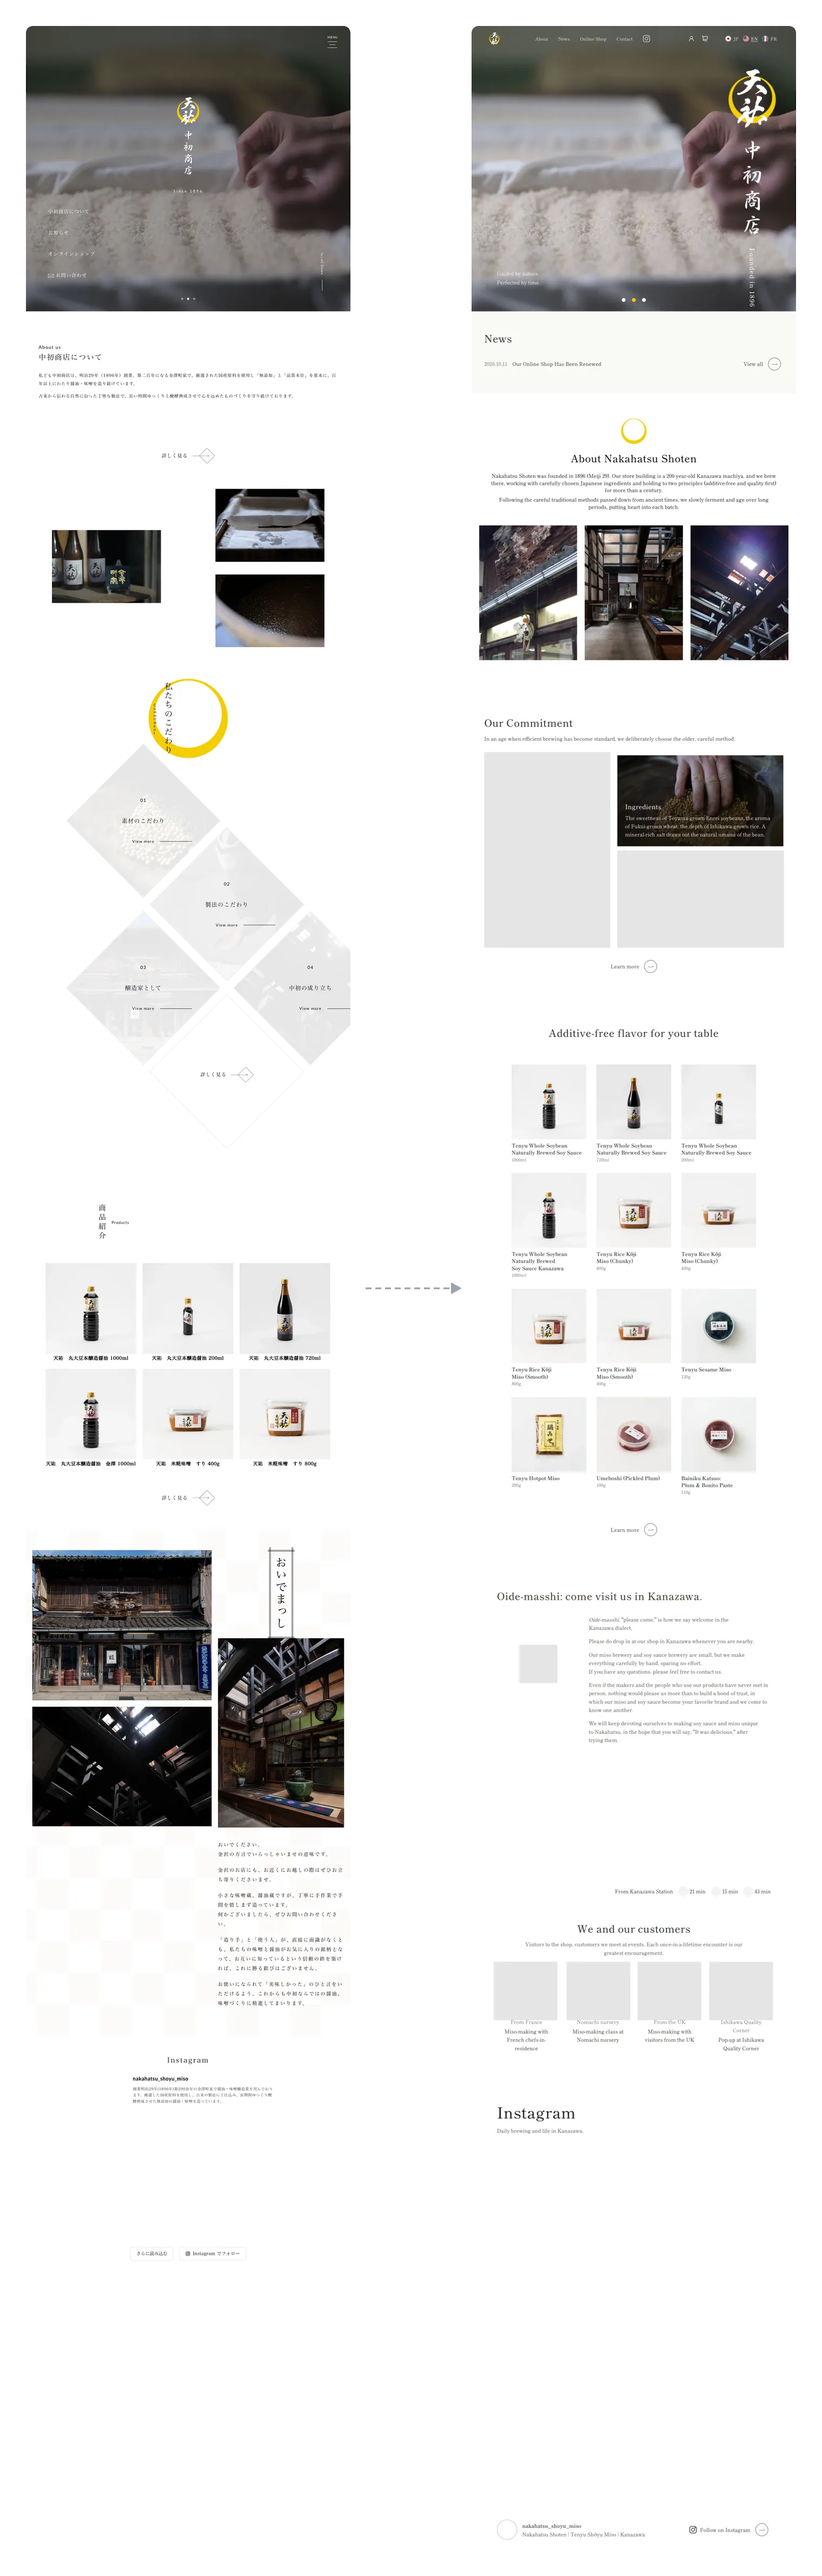
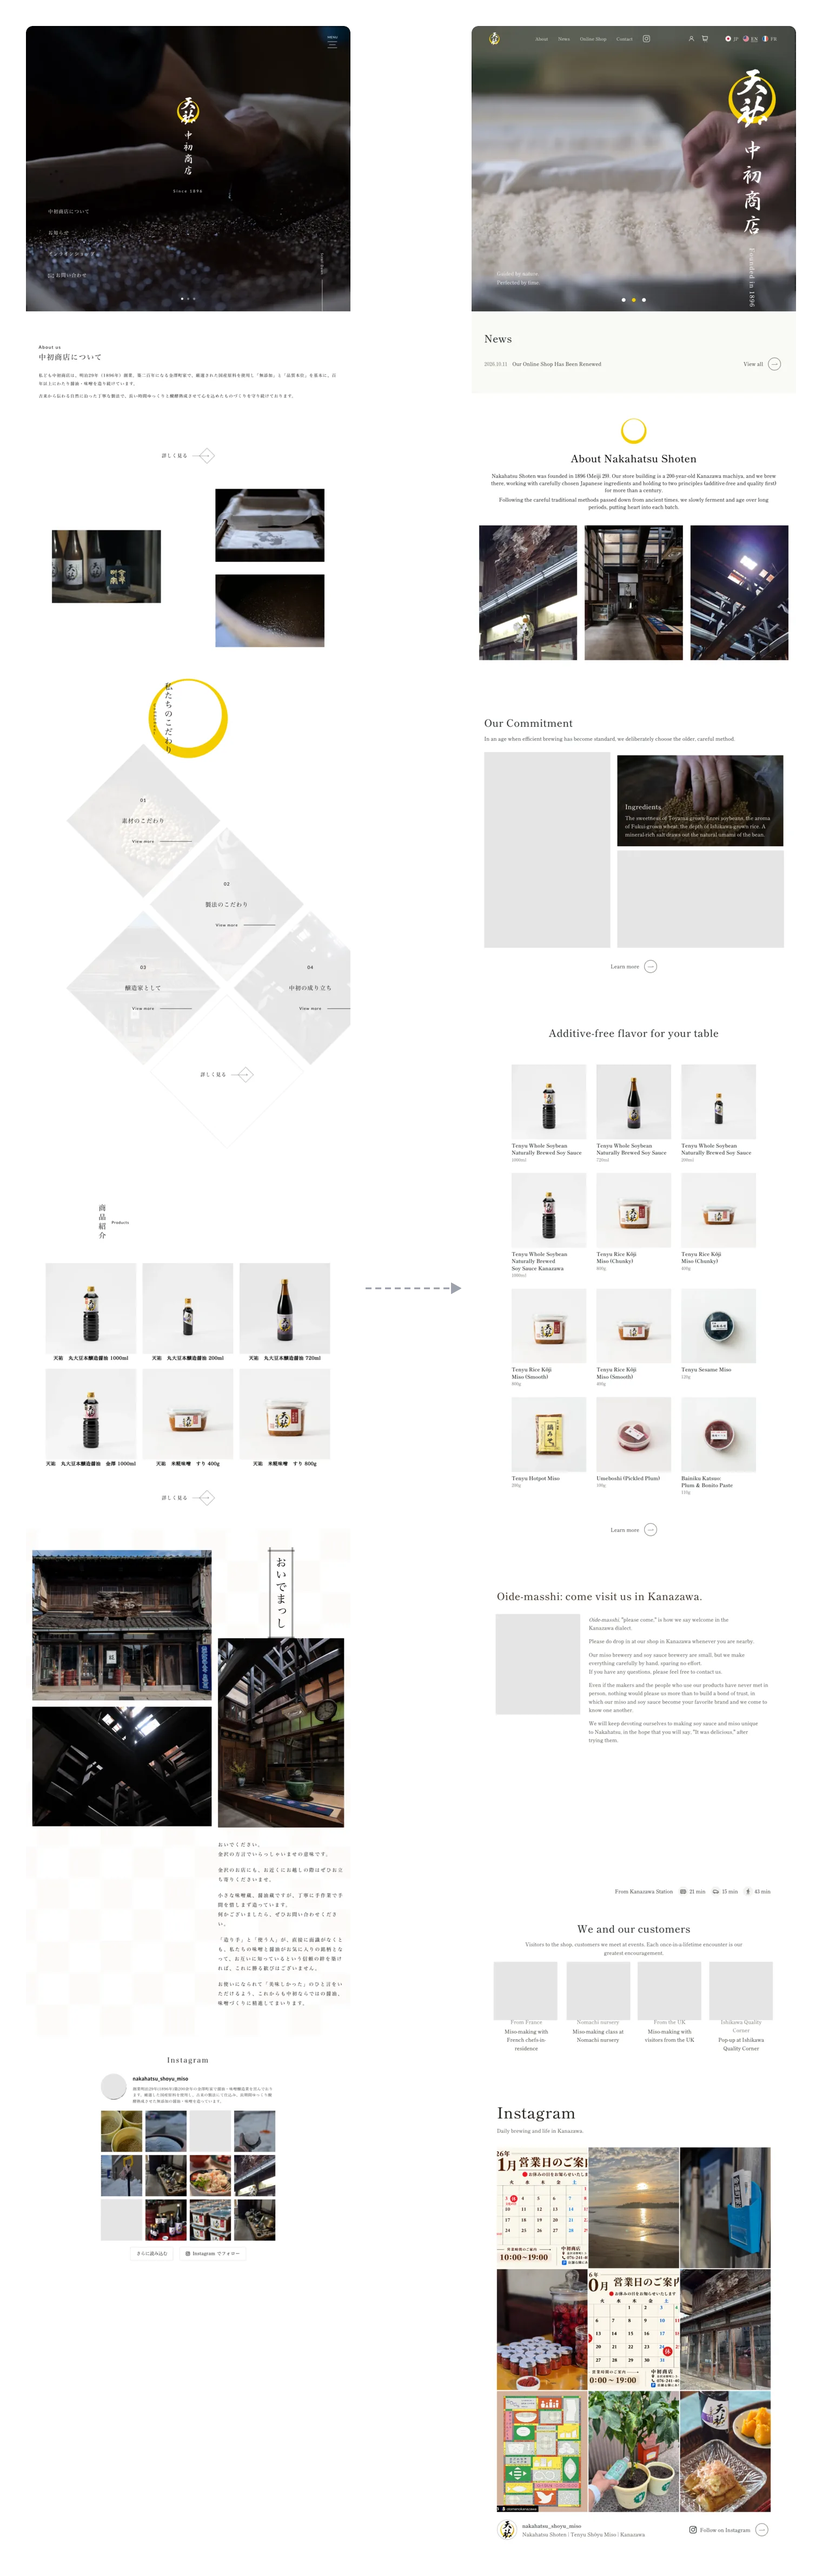
feat(nakahatsu-sy): loading video at top (play once), IG post links, top iteration figure, step 3 order, SP hero figure, v1/v2 recapture

diff --git a/app/[locale]/work/nakahatsu-sy/NakahatsuSy.tsx b/app/[locale]/work/nakahatsu-sy/NakahatsuSy.tsx
@@ -163,18 +163,29 @@ function ParallaxVideo({ label, note }: { label: string; note: string }) {
 type RejFig = { lead: string; groups: [string, string][]; note: string; alts: string[] };
 
 /** 没にした About の案（醸造家として）8案。グループごとに、左に説明、右に画像（スマートフォンは説明のあとに2列）。人物の写真は灰色に置換済み。 */
-/** ローディングアニメーションの録画。無音・ループ。動きを減らす設定のときは自動再生せず、ポスターだけ出す。 */
+/** ローディングアニメーションの録画。無音。画面に入ったら1回だけ再生。動きを減らす設定のときは自動再生せず、コントロールを出す。 */
 function LoadingVideo({ label }: { label: string }) {
   const ref = React.useRef<HTMLVideoElement>(null);
   useEffect(() => {
     const v = ref.current;
     if (!v) return;
     if (window.matchMedia('(prefers-reduced-motion: reduce)').matches) {
-      v.pause();
       v.controls = true;
-    } else {
-      v.play().catch(() => {});
+      return;
     }
+    // 画面に半分以上入ったときに、先頭から1回だけ再生する（ループしない。終わったら最後のコマで止まる）
+    const io = new IntersectionObserver(
+      (entries) => {
+        if (entries.some((e) => e.isIntersecting)) {
+          v.currentTime = 0;
+          v.play().catch(() => {});
+          io.disconnect();
+        }
+      },
+      { threshold: 0.5 },
+    );
+    io.observe(v);
+    return () => io.disconnect();
   }, []);
   return (
     <video
@@ -186,11 +197,35 @@ function LoadingVideo({ label }: { label: string }) {
       width={1280}
       height={720}
       muted
-      loop
       playsInline
-      autoPlay
       preload="metadata"
     />
+  );
+}
+
+type IterFig = { lead: string; groups: [string, string][]; note: string; alts: string[] };
+
+/** トップページの About の節の、没にした案9案（A 7案、B 2案）。RejectedFigure と同じ作り。顔・Sample・住所は写っていない。 */
+function TopIterFigure({ f }: { f: IterFig }) {
+  const sets = [[1, 2, 3, 4, 5, 6, 7], [8, 9]];
+  return (
+    <figure aria-label={f.lead} className="flex w-full flex-col gap-6 rounded-media bg-surface-muted p-4 md:gap-7 md:p-8">
+      <p className="text-caption text-ink-secondary">{f.lead}</p>
+      {sets.map((set, gi) => (
+        <div key={f.groups[gi][0]} className="flex flex-col gap-3 md:flex-row md:gap-6">
+          <div className="flex flex-col gap-1 md:w-[260px] md:shrink-0">
+            <p className="text-caption font-bold text-ink">{f.groups[gi][0]}</p>
+            <p className="text-caption text-ink-secondary">{f.groups[gi][1]}</p>
+          </div>
+          <div className={`grid min-w-0 flex-1 grid-cols-2 gap-2 bg-white p-2 md:gap-4 md:p-4 ${set.length > 2 ? 'md:grid-cols-3' : 'md:grid-cols-2'}`}>
+            {set.map((n) => (
+              <Image key={n} src={`/work/nakahatsu/top-iter-${n}.webp`} alt={f.alts[n - 1]} width={1024} height={720} className="h-auto w-full rounded" />
+            ))}
+          </div>
+        </div>
+      ))}
+      <p className="text-caption text-ink-tertiary">{f.note}</p>
+    </figure>
   );
 }
 
@@ -283,6 +318,9 @@ const NakahatsuSy: React.FC<{ launched: boolean }> = () => {
           </dl>
         </header>
 
+        {/* ローディングアニメーション（ライブテーマのトップを開いた瞬間を録画）。本文の最初。キャプションは置かず、aria-label に説明を入れる。Figma の Overview 直前と同じ */}
+        <LoadingVideo label={t('loadingVideoAlt')} />
+
         <Row label="Overview">
           <p className={catchLine}>{t('overviewCatch')}</p>
           {(t.raw('overview') as string[]).map((p) => (
@@ -313,7 +351,7 @@ const NakahatsuSy: React.FC<{ launched: boolean }> = () => {
           </div>
           {/* 上の図のあとに、投稿そのものの見た目（SP 幅のスクリーンショット）を並べた図。人物が写る写真は灰色に置き換え、載せない投稿は文字の枠。Figma の Instagram の図の下と同じ */}
           {(() => {
-            const shots = t.raw('igShots') as { dates: string[]; alts: string[]; textCard: string; note: string };
+            const shots = t.raw('igShots') as { dates: string[]; alts: string[]; urls: string[]; linkLabel: string; textCard: string; note: string };
             const files = ['muji', 'fest', 'overseas'];
             return (
               <figure className="flex w-full flex-col gap-4 rounded-media bg-surface-muted p-3 md:px-12 md:pb-6 md:pt-8">
@@ -321,7 +359,9 @@ const NakahatsuSy: React.FC<{ launched: boolean }> = () => {
                   {files.map((f, k) => (
                     <div key={f} className="flex min-w-0 flex-col gap-1.5">
                       <p className="font-space-grotesk text-caption font-bold text-ink-tertiary">{shots.dates[k]}</p>
-                      <Image src={`/work/nakahatsu/ig-shot-${f}.webp`} alt={shots.alts[k]} width={780} height={1210} className="h-auto w-full rounded-md" />
+                      <a href={shots.urls[k]} target="_blank" rel="noopener noreferrer" aria-label={`${shots.dates[k]} ${shots.linkLabel}`} className="block min-h-11 rounded-md focus-visible:outline focus-visible:outline-2 focus-visible:outline-offset-2 focus-visible:outline-ink">
+                        <Image src={`/work/nakahatsu/ig-shot-${f}.webp`} alt={shots.alts[k]} width={780} height={1210} className="h-auto w-full rounded-md" />
+                      </a>
                     </div>
                   ))}
                   <div className="flex min-w-0 flex-col gap-1.5">
@@ -361,19 +401,22 @@ const NakahatsuSy: React.FC<{ launched: boolean }> = () => {
                 </div>
               ) : s.fig === 'about-tenyu' ? (
                 <div className="flex flex-col items-center gap-10 md:gap-12">
-                  {/* About の前後、トップの前後（縦長）、没にした About の案。キャプションは置かず、alt に説明を入れる */}
+                  {/* トップの前後、トップの軌跡（没案）、About の文章、About の前後、パララックス、没にした About の案。Figma の Step 3 と同じ順。キャプションは置かず、alt に説明を入れる */}
+                  <div className="w-full">
+                    <BeforeAfterLabels before={t('beforeLabel')} after={t('afterLabel')} />
+                    <Image src={`/work/nakahatsu/top-ba-${language === 'jp' ? 'jp' : 'en'}.webp`} alt={t('topBaAlt')} width={1520} height={975} className="h-auto w-full" />
+                  </div>
+                  <TopIterFigure f={t.raw('topIter') as IterFig} />
+                  <div className="flex w-full flex-col md:flex-row md:gap-8">
+                    <div className="hidden md:block md:w-[280px] md:shrink-0" aria-hidden="true" />
+                    <p className={`${body} min-w-0 md:flex-1`}>{t('aboutText')}</p>
+                  </div>
                   <div className="w-full">
                     <BeforeAfterLabels before={t('beforeLabel')} after={t('afterLabel')} />
                     <Image src={`/work/nakahatsu/about-ba-${language === 'jp' ? 'jp' : 'en'}.webp`} alt={t('aboutBaAlt')} width={1520} height={1756} className="h-auto w-full" />
                   </div>
                   {/* About「醸造家として」のパララックスの録画。About の前後の図の直後。キャプションは置かず、aria-label に説明を入れる */}
                   <ParallaxVideo label={t('parallaxVideoAlt')} note={t('parallaxVideoNote')} />
-                  <div className="w-full">
-                    <BeforeAfterLabels before={t('beforeLabel')} after={t('afterLabel')} />
-                    <Image src={`/work/nakahatsu/top-ba-${language === 'jp' ? 'jp' : 'en'}.webp`} alt={t('topBaAlt')} width={1520} height={975} className="h-auto w-full" />
-                  </div>
-                  {/* ローディングアニメーション（ライブテーマのトップを開いた瞬間を録画）。キャプションは置かず、aria-label に説明を入れる */}
-                  <LoadingVideo label={t('loadingVideoAlt')} />
                   <RejectedFigure f={t.raw('rejFig') as RejFig} />
                 </div>
               ) : s.fig === 'bilingual-3lang' ? null /* ヒーローの3言語の図は、注釈「見せない」（2026-10-30）で外した。下の商品一覧の図だけ出す */ : (
@@ -430,6 +473,14 @@ const NakahatsuSy: React.FC<{ launched: boolean }> = () => {
                 <div className="flex justify-center">
                   <div className="w-full">
                     <Image src="/work/nakahatsu/bilingual-text.webp" alt={t('bilingualTextAlt')} width={1560} height={757} className="h-auto w-full" />
+                  </div>
+                </div>
+              )}
+              {/* ヒーロー節を、スマートフォン幅で、3言語並べた図（商品一覧の図の下）。Figma の Step/4 の最後と同じ */}
+              {s.fig === 'bilingual-3lang' && (
+                <div className="flex justify-center">
+                  <div className="w-full">
+                    <Image src={`/work/nakahatsu/hero-sp-${language === 'jp' ? 'jp' : 'en'}.webp`} alt={t('heroSpAlt')} width={2176} height={1400} className="h-auto w-full" />
                   </div>
                 </div>
               )}
